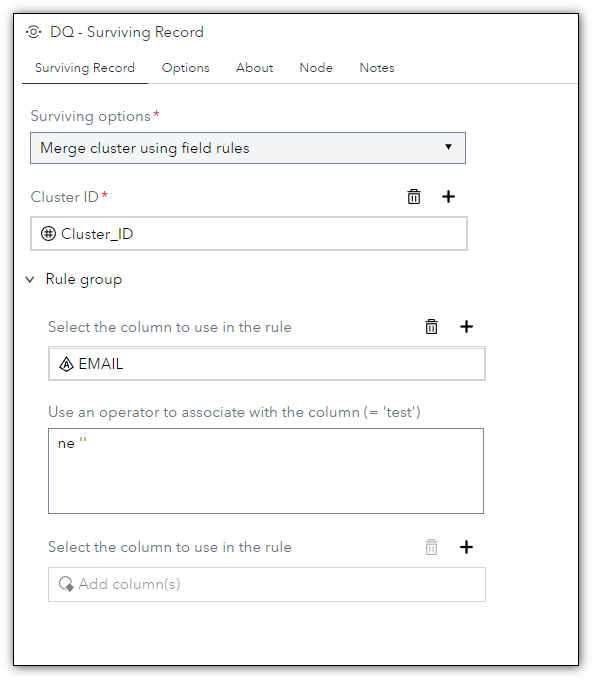
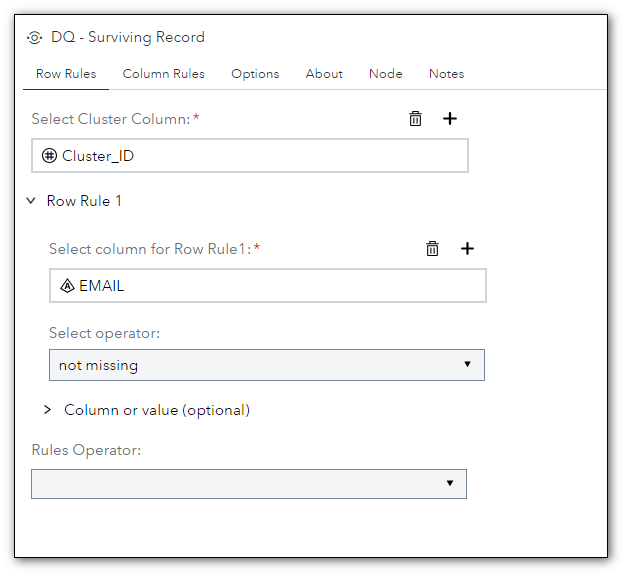
Using the standard macro %DQSURVR

diff --git a/DQ - Surviving Record/README.md b/DQ - Surviving Record/README.md
@@ -2,36 +2,46 @@
  
 ## Description
 
-The **DQ - Surviving Record** step allows you to extract the best record (Golden Record) from the clustered data by selecting the rules of interest. You can use standard deduplication techniques or create a rule to choose which data should survive.
-
+The **DQ - Surviving Record** step allows you to extract the best record (Golden Record) from the clustered data by selecting the rules of interest. You can use standard deduplication techniques or create a rule to choose which data should survive.  
+This new version uses the standard macro [%DQSURVR](https://go.documentation.sas.com/doc/en/dqcdc/v_025/dqclref/p1i32jjeybfcb7n19tzfasbzdcb9.htm) instead of the custom code.  
+  
 ## User Interface  
 
-* ### Surviving Options tab ###
+* ### Surviving Record ###
 
    | Standalone mode | Flow mode |
    | --- | --- |                  
    | ![](img/dqsurviving-tabsurvivingrecord-standalone.png) | ![](img/dqsurviving-tabsurvivingrecord-flowmode.png) |
-
-* Surviving Options
-1. **Sort No Dup**     - Performs a noduplicated sort on the entire row, it is mandatory to specify the Cluster_ID column and the by variables.  
-2. **Sort No Dup key** - Performs a noduplicated sort on the by variables, it is mandatory to specify the Cluster_ID column and the by variables.  
-3. **First record in cluster after sorting**   - Performs a sort on the Cluster_Id variable and select the first row of the cluster it is mandatory to specify the Cluster_ID.  
-4. **Last record in cluster after sorting**    - Performs a sort on the Cluster_Id variable and select the last row of the cluster it is mandatory to specify the Cluster_ID.  
-5. **Merge cluster using field rules** Allows you to define up to 5 rules on columns to select the best data within the cluster. Each rule is associated with a column, but it is also possible to specify more data as follows:  
-![DQ - Surviving Record Rule Sample](img/dqsurviving-SurvivingRecord_Rule.png)
-6. **Merge cluster using record rules** - Allows you to define up to 5 rules on columns to select the best data within the cluster. Each rule is associated with a column and will be applied to the entire record with the concept of record weight: the record with the greatest weight, that is, the one that has more data that satisfies the rule, will be kept.  
   
-* **Cluster ID** Defines the column that contains the cluster id required for all functions.  
-* **By columns** Defines the columns to sort the table used in the Sort Nodup and First and Last Cluster options.  
-* **Rule group** Section of the dialog contains rules that are used to determine which record in the cluster should be choosen as the surviving record. The section includes a pair of information (maximum 5), column and rule, to define the survival rule.  
+* ### Row Rules tab ###  
+Specifies the row-level rule that identifies which row in the cluster should be chosen as the surviving record.  
 
-* ### Options tab ###  
-
-   ![](img/dqsurviving-tabsurvivingoptions-flowmode.png)  
+1. **Select Cluster Column** - Specifies the cluster identifier column.  
+2. **Row Rule 1 - Select Column for row rule 1** - Specifies the input column to be used in the condition.
+3. **Select Operator** - Specifies the operator type. Valid operators include: missing, not missing, highocc (high occurrence), lowocc (low occurrence), longest, shortest, max, min, equal to, greater than, less than, greater or equal to, less than or equal to
+4. **Rule Operator** - Specifies the logical Boolean operator value to combine or exclude keywords in a search. Values can be AND or OR.
+5. **Row Rule 2** - Specifies the row rule parameters as shown in Row Rule 1.  
+  
+* ### Column Rules tab ###  
+1. **First Column rules 1** - Specifies which value from all of the cluster record values should be assigned to the column in the surviving record. See the parameters in Row Rule 1 for more information.  
+2. **Column Operator** - Specifies the logical Boolean operator value to combine or exclude keywords in a search. The value can be AND or OR.     
+3. **First Column:** - Specifies which of the cluster record values for one or more given fields should be assigned to the field in the surviving record.
+4. **First Column rules 2** - Specifies which of the cluster record values should be assigned to the column in the surviving record. See the parameters in Row Rule 1 for more information.  
+5. **Second column rules 1** - As for the first column
+ 
+* ### Options Rules tab ###  
+  
+1. **Keep Duplicates** - Specifies whether to keep duplicate rows. When set to No, all non-surviving records are removed from the output. When set to Yes, all incoming records are included in the output.  
+2. **Specifies the name ...** - Specifies the name of a new output field that contains information that is used to identify the surviving record in a cluster.  
+3. **Promote to Cas** - Specifies whether to promote the CAS output table to global. This option is valid only for the CAS output table. When set to Yes, the CAS output table is promoted to global scope.  
+4. **Generate Distinct Survivor** - Specifies whether to keep the original record and generate a distinct record. When set to Yes, it creates a new record that is a copy of the original surviving record and applies edits from field rules.  
+5. **Use Primary Key column** - Specifies whether to use the primary key value from the surviving record as the surviving record ID field of all records in the cluster. When set to Yes, the primary key column must be specified. When set to Yes, places the value of the primary key field from the surviving record into the surviving record ID field of all records in the cluster.  
+6. **Primary Key Column** - Specifies the input field that contains the primary key values for the incoming data.  
+  
 
 ## Requirements
 
-2021.1.5 or later
+2023.06 or later
 
 * The Surviving Record must be used on tables that contain a numeric column representing the cluster made previously. Typically after a [match code](<https://github.com/sassoftware/sas-studio-custom-steps/blob/main/DQ%20-%20Match%20Code/README.md>) and [cluster analysis](<https://github.com/sassoftware/sas-studio-custom-steps/blob/main/DQ%20-%20Clustering/README.md>).  
 
@@ -41,6 +51,9 @@ The **DQ - Surviving Record** step allows you to extract the best record (Golden
 
 ## Change Log
 
+* Version 2.0 (25JUL2023)
+    * Using the standard macro %DQSURVR  
+  	
 * Version 1.0 (19MAY2022)
     * Initial version  
 	
